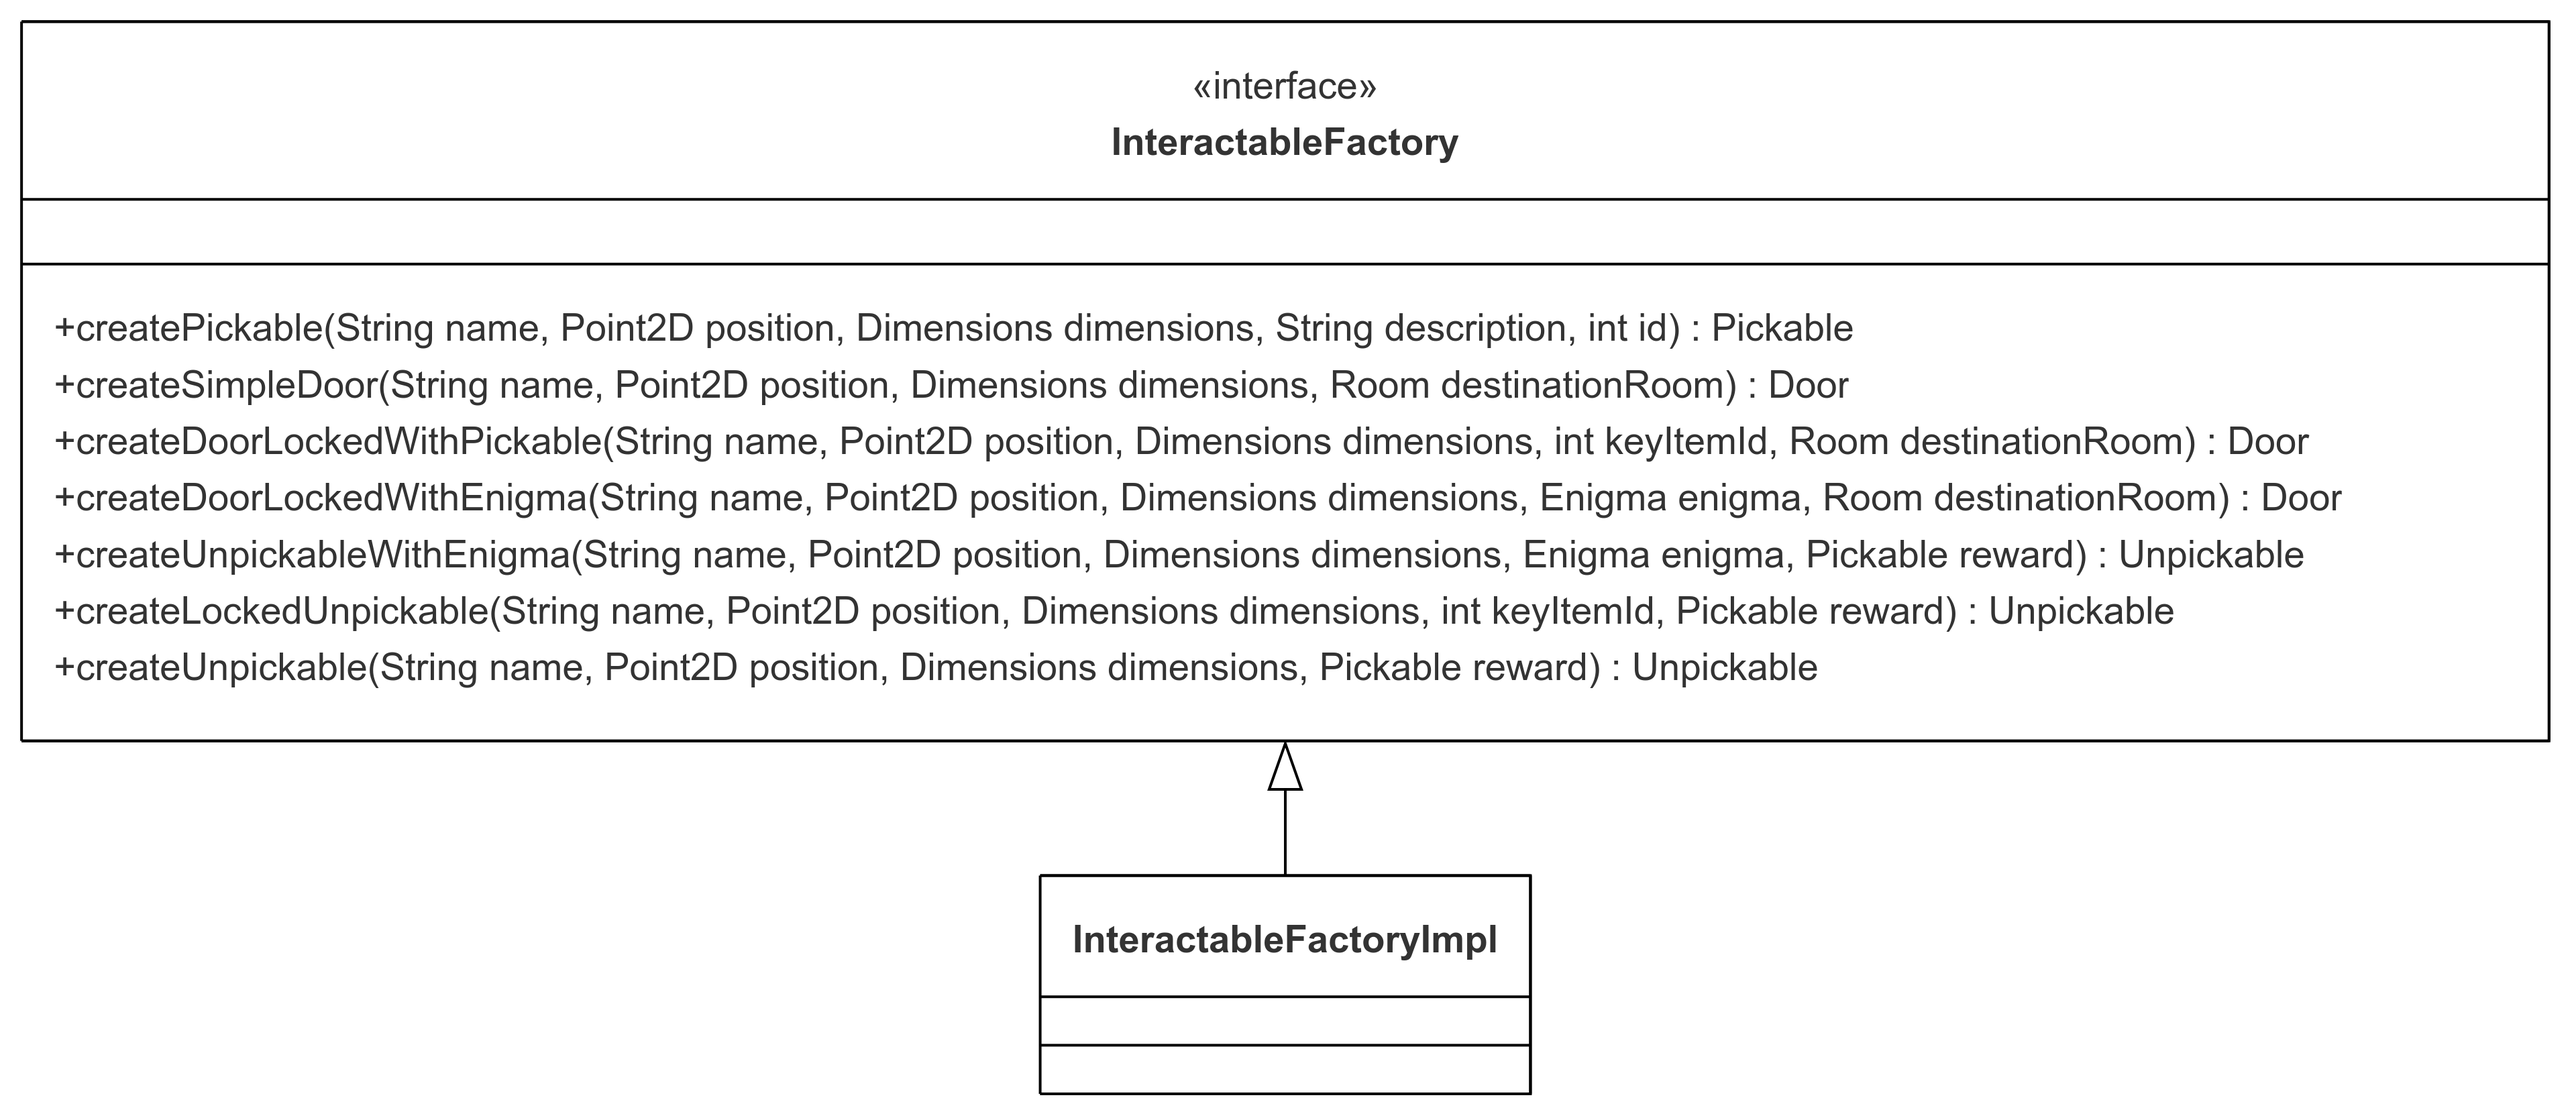
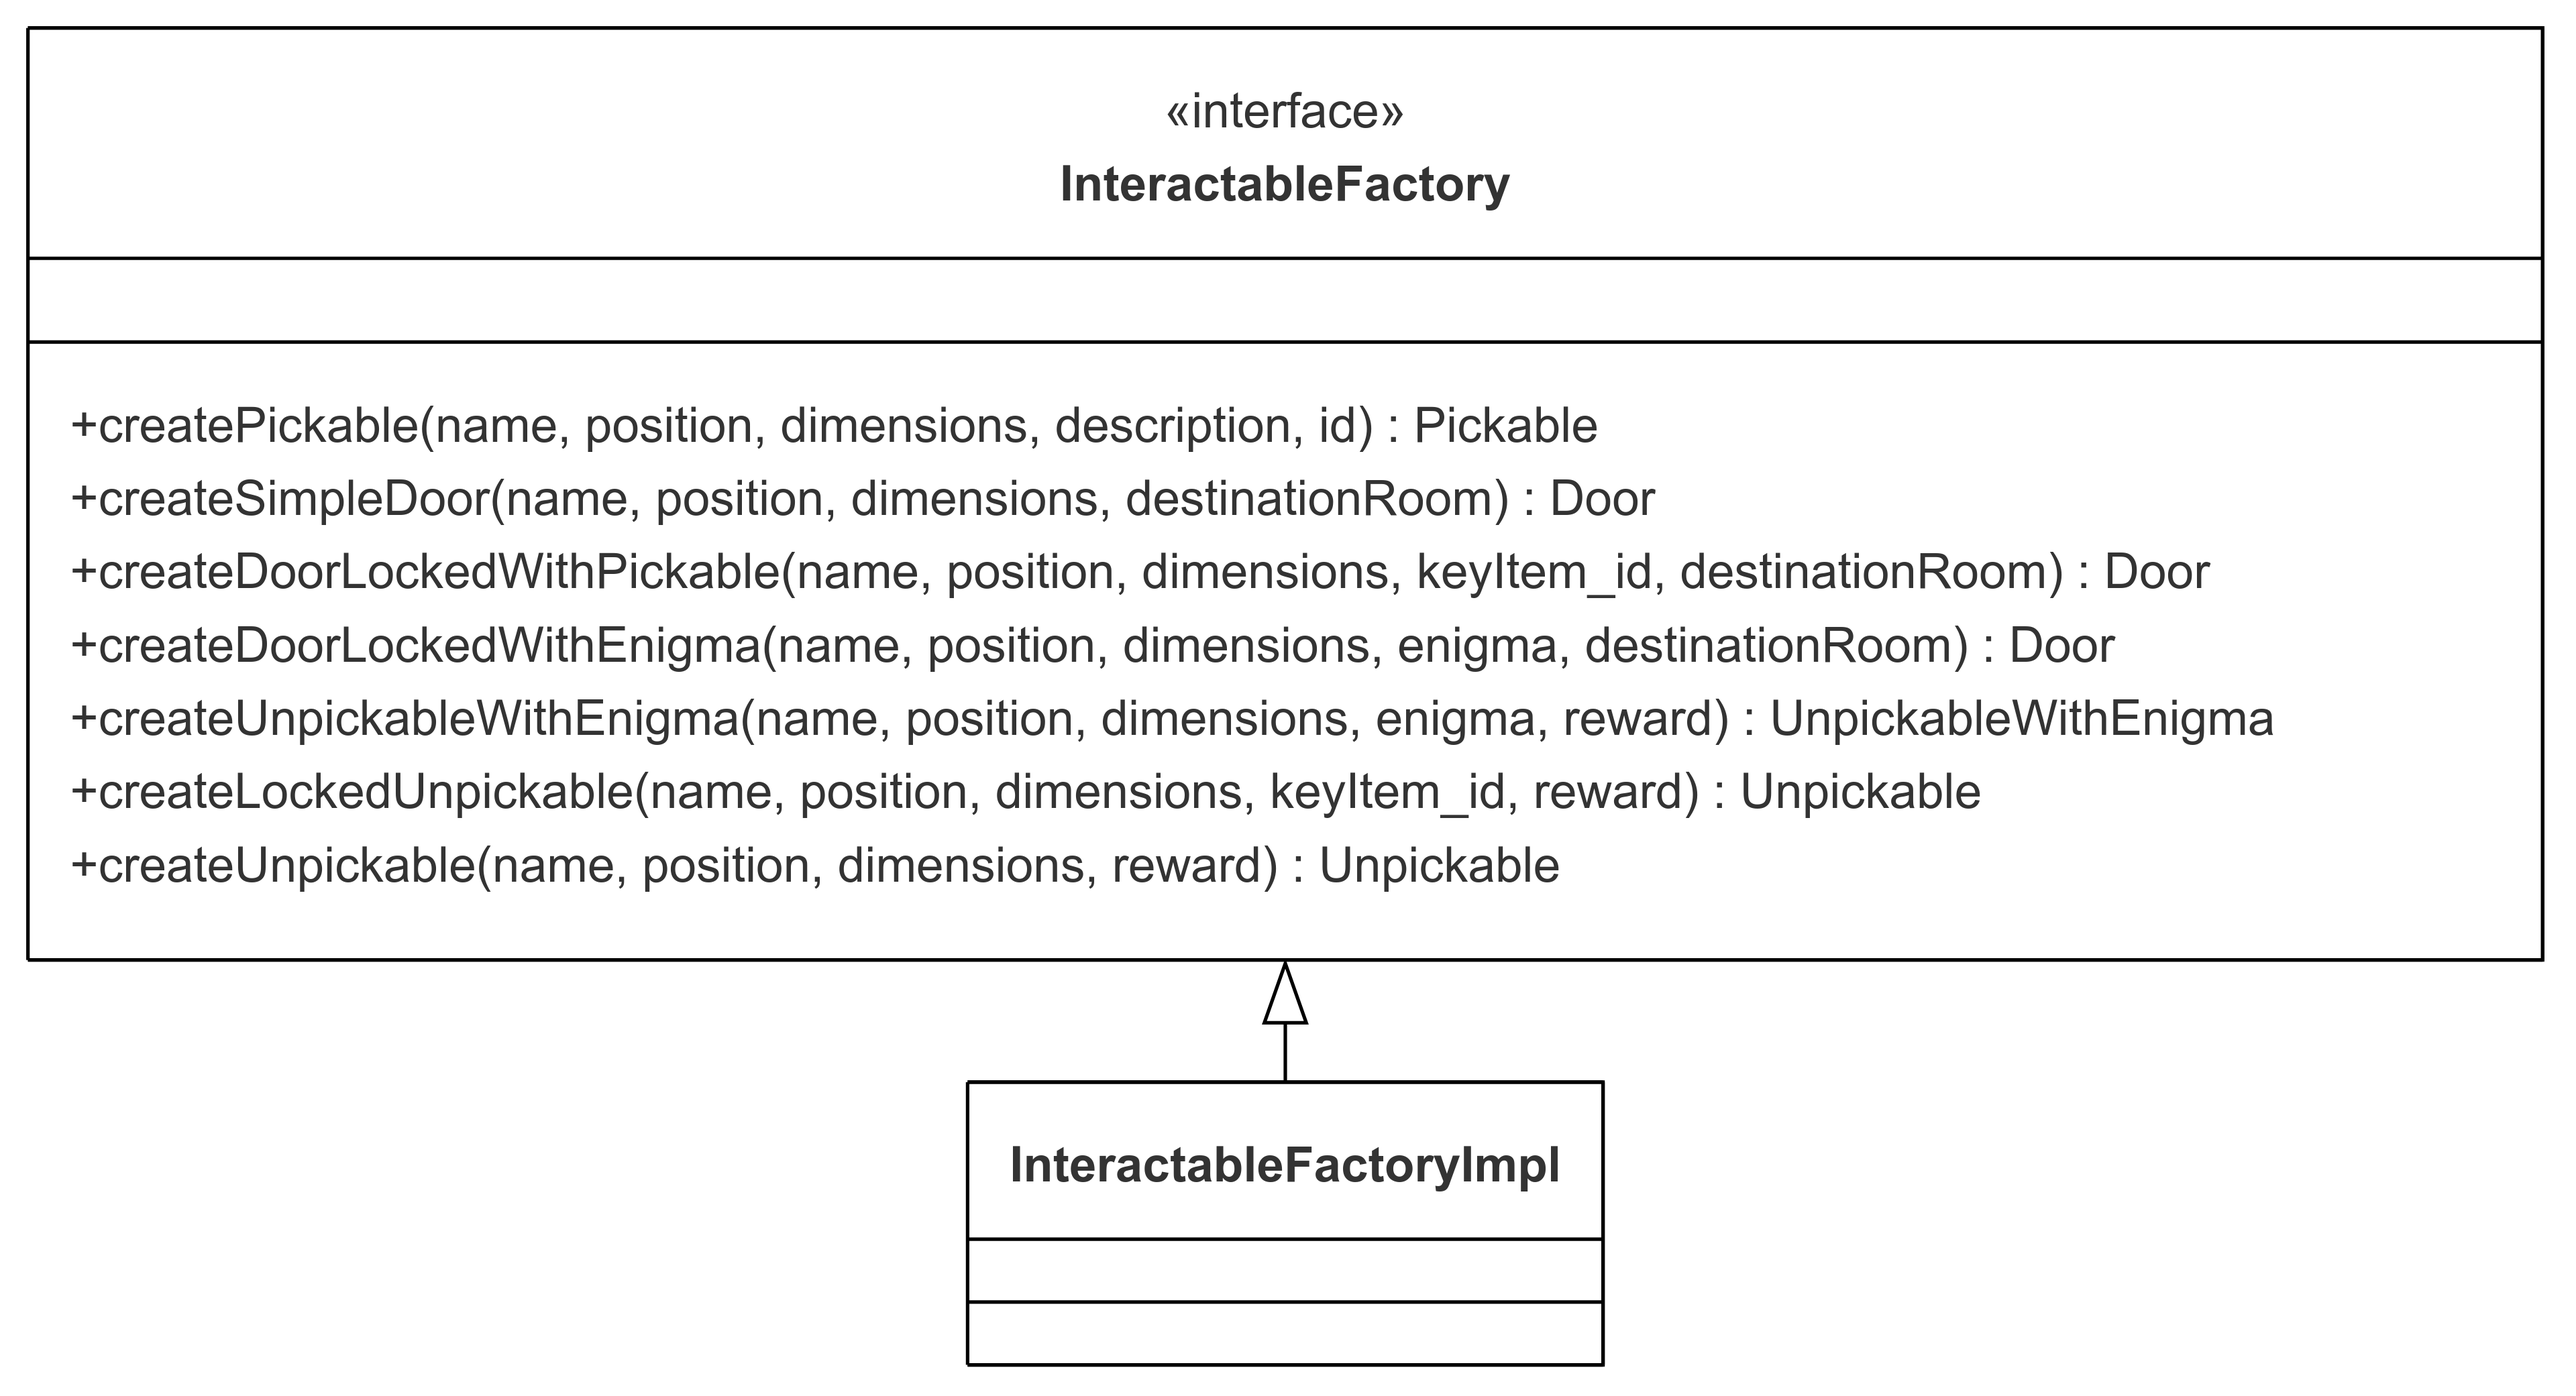
some changes

diff --git a/13-template.tex b/13-template.tex
@@ -127,7 +127,6 @@ In questo modo, il gioco è in grado di mantenere le modifiche correnti all'inve
 \begin{figure}[h]  % [h] indica che la figura sarà posizionata il più vicino possibile
     \centering
     \includegraphics[width=0.8\textwidth]{img/player.png}  % Modifica width se serve
-    \caption{Esempio di game object}
     \label{img:gameObject}
 \end{figure}
 %
@@ -141,7 +140,6 @@ Poichè modifiche alla logica del puzzle non influenzano la vista, e viceversa, 
 \begin{figure}[h]  % [h] indica che la figura sarà posizionata il più vicino possibile
     \centering
     \includegraphics[width=0.8\textwidth]{img/puzzle.png}  % Modifica width se serve
-    \caption{Esempio di game object}
     \label{img:gameObject}
 \end{figure}
 %
@@ -151,7 +149,6 @@ Poichè modifiche alla logica del puzzle non influenzano la vista, e viceversa, 
 \begin{figure}[h]  % [h] indica che la figura sarà posizionata il più vicino possibile
     \centering
     \includegraphics[width=0.8\textwidth]{img/inventory.png}  % Modifica width se serve
-    \caption{Esempio di game object}
     \label{img:gameObject}
 \end{figure}
 %
@@ -161,7 +158,6 @@ Poichè modifiche alla logica del puzzle non influenzano la vista, e viceversa, 
 \begin{figure}[h]  % [h] indica che la figura sarà posizionata il più vicino possibile
     \centering
     \includegraphics[width=0.8\textwidth]{img/button.png}  % Modifica width se serve
-    \caption{Esempio di game object}
     \label{img:gameObject}
 \end{figure}
 %
@@ -222,13 +218,14 @@ Per garantire flessibilità ed estensibilità, ho adottato due pattern di proget
 	\item Pattern Decorator: consente di estendere dinamicamente il comportamento delle porte senza modificare direttamente la classe base.
 	\item Pattern Template Method: garantisce che il comportamento delle porte bloccate venga gestito in modo strutturato nelle sottoclassi, evitando duplicazioni di codice.
 \end{itemize}
+Classi:
 \begin{itemize}
 	\item Creazione della Porta Base: la classe BaseDoor rappresenta una porta semplice, sempre aperta. Implementa il metodo onAction(Player player), che permette al giocatore di raggiungere la stanza di destinazione.
 	\item Decorazione con Enigma: DoorLockedWithEnigma estende AbstractDoorDecorator e richiede la risoluzione di un enigma per lo sblocco.
 	\item Decorazione con Pickable: La classe DoorLockedWithPickable segue lo stesso principio, ma invece di un enigma controlla se il giocatore possiede un oggetto con un ID specifico.
 \end{itemize}
 La logica di sblocco viene gestita attraverso il Template Method isUnlocked() in AbstractDoorDecorator, il quale viene sovrascritto nelle classi derivate per specificare il comportamento di sblocco. 
-Questa implementazione permette di aggiungere nuovi tipi di blocco senza modificare la classe DoorImpl, garantendo un design scalabile e mantenibile e seguendo il principio Open-Closed della programmazione a oggetti.
+Questa implementazione permette di aggiungere nuovi tipi di blocco senza modificare la classe DoorImpl, garantendo un design scalabile, mantenibile e seguendo il principio Open-Closed della programmazione a oggetti.
 \begin{figure}[h]
     \centering
     \includegraphics[width=0.8\textwidth]{img/doors.png}
@@ -254,8 +251,8 @@ Il gioco può così facilmente supportare nuovi oggetti interagibili senza modif
 Grazie a questo design, il sistema è più scalabile, chiaro e manutenibile, garantendo una gestione efficiente di tutti gli oggetti con cui il giocatore può interagire.
 \begin{figure}[h]
     \centering
-    \includegraphics[width=0.8\textwidth]{img/InteractableFactory.png}
-    \label{img:InteractableFactory}
+    \includegraphics[width=0.8\textwidth]{img/interactableFactory.png}
+    \label{img:interactableFactory}
 \end{figure}
 \paragraph{Problema} %%descrizione del problema
 Nel gioco Mind Escape, gli enigmi rappresentano un aspetto fondamentale della progressione. Tuttavia, gestire ogni enigma con una logica monolitica avrebbe reso il codice difficile da mantenere e scalare. Il problema principale era separare la logica di ogni enigma dalla sua interfaccia grafica e dal controllo dell’interazione con l’utente.
